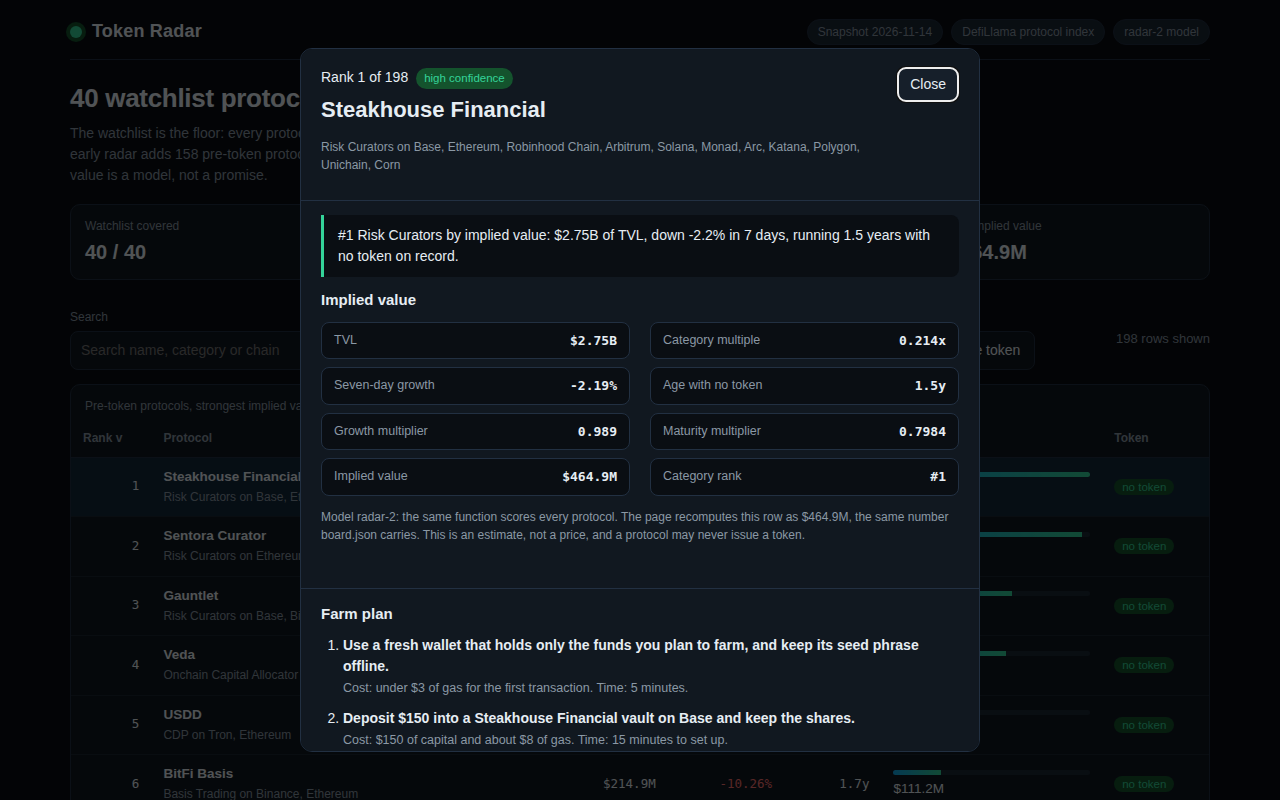
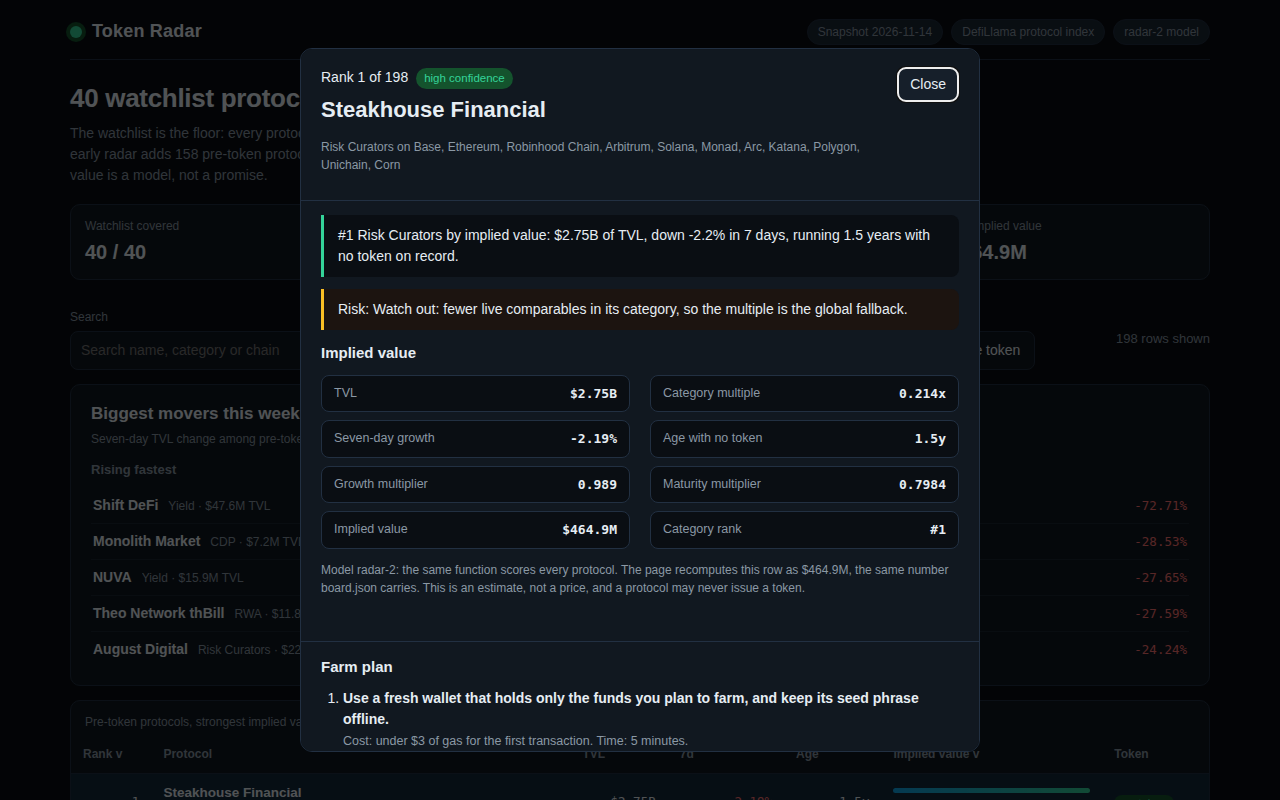
Add per-row risk notes, biggest-movers panel, per-category standings

diff --git a/lib/model.ts b/lib/model.ts
@@ -23,6 +23,9 @@
 //   implied    = max(1, round(tvl_usd x multiple x growthMult x maturity))
 //
 // No protocol name is ever special-cased: the same function scores every row.
+//
+// Each row also carries its own risk note, and the board ships two more views of the same figures:
+// the week's biggest movers among the pre-token rows, and one standing line per category.
 
 /** The snapshot's protocol entry: exactly the ten fields the sealed input carries. */
 export interface SnapshotProtocol {
@@ -112,6 +115,7 @@ export interface BoardRow {
     age_days: number | null;
   };
   thesis: string;
+  risk: string;
   confidence: 'high' | 'medium' | 'low';
   category_rank: number;
   farm_steps: string[];
@@ -134,6 +138,7 @@ export interface RadarRow {
   growth_multiplier: number;
   maturity_multiplier: number;
   thesis: string;
+  risk: string;
   confidence: 'high' | 'medium' | 'low';
   category_rank: number;
 }
@@ -156,6 +161,33 @@ export interface CategoryMultiple {
   multiple: number;
 }
 
+/** One of the week's fastest movers among the pre-token rows. */
+export interface Mover {
+  slug: string;
+  name: string;
+  category: string | null;
+  change_7d: number | null;
+  tvl_usd: number;
+  implied_value_usd: number;
+}
+
+/** The week's five fastest risers and five fastest fallers among the pre-token rows. */
+export interface Movers {
+  gainers: Mover[];
+  losers: Mover[];
+}
+
+/** One category's standing on the board: its rows, its median multiple, its top row. */
+export interface CategorySummary {
+  category: string;
+  rows: number;
+  watchlist_rows: number;
+  median_multiple: number;
+  top_slug: string;
+  top_name: string;
+  top_implied_usd: number;
+}
+
 /** Everything the dashboard needs: the board, the live set, and the model it runs. */
 export interface RadarData {
   as_of: string;
@@ -170,6 +202,8 @@ export interface RadarData {
   live_size: number;
   global_multiple: number;
   multiples: CategoryMultiple[];
+  movers: Movers;
+  categories: CategorySummary[];
   rows: RadarRow[];
   live: LiveRow[];
 }
@@ -312,6 +346,18 @@ export function confidenceFor(p: SnapshotProtocol): 'high' | 'medium' | 'low' {
   return 'low';
 }
 
+/** What could go wrong farming this protocol, from its own figures alone. */
+export function riskFor(p: SnapshotProtocol, age: number | null, growthPct: number, comparables: number): string {
+  const flags: string[] = [];
+  if (growthPct <= -20) flags.push(`TVL fell ${Math.abs(growthPct).toFixed(0)}% in 7 days, so the position may keep shrinking while you hold it`);
+  if (age === null) flags.push('no listing date on record, so the age behind the maturity score is a guess');
+  else if (age < 90) flags.push(`only ${age} days on record, so the track record is thin`);
+  if (comparables < MODEL.multiple_min_comparables) flags.push('fewer live comparables in its category, so the multiple is the global fallback');
+  if (p.tvl_usd < 100_000_000) flags.push('under $100M of TVL, so one large wallet leaving moves the pool');
+  if (flags.length === 0) return 'The main risk is the launch itself: a protocol may run for years and never issue a token.';
+  return `Watch out: ${flags.join('; ')}.`;
+}
+
 /** One line saying why this protocol is worth farming, from its own figures alone. */
 export function thesisFor(p: SnapshotProtocol, categoryRank: number, age: number | null, growthPct: number): string {
   const tvl =
@@ -387,6 +433,7 @@ export function buildBoard(snapshot: Snapshot, model: ModelConstants = MODEL): B
       age_days: s.age,
     },
     thesis: thesisFor(s.p, catRank.get(s.p.slug) ?? 0, s.age, s.growthPct),
+    risk: riskFor(s.p, s.age, s.growthPct, s.comparables),
     confidence: confidenceFor(s.p),
     category_rank: catRank.get(s.p.slug) ?? 0,
     farm_steps: farmSteps(s.p, s.age).map(stepText),
@@ -507,6 +554,57 @@ export function farmSteps(p: SnapshotProtocol, age: number | null): FarmStep[] {
   ];
 }
 
+/** The five fastest risers and five fastest fallers, by seven-day change. */
+export function moversOf(board: BoardRow[]): Movers {
+  const withChange = board.filter((r) => r.change_7d !== null);
+  const toMover = (r: BoardRow): Mover => ({
+    slug: r.slug,
+    name: r.name,
+    category: r.category,
+    change_7d: r.change_7d,
+    tvl_usd: r.tvl_usd,
+    implied_value_usd: r.implied_value_usd,
+  });
+  const gainers = withChange
+    .slice()
+    .sort((a, b) => (b.change_7d ?? 0) - (a.change_7d ?? 0))
+    .slice(0, 5)
+    .map(toMover);
+  const losers = withChange
+    .slice()
+    .sort((a, b) => (a.change_7d ?? 0) - (b.change_7d ?? 0))
+    .slice(0, 5)
+    .map(toMover);
+  return { gainers, losers };
+}
+
+/** A per-category standing table, built from the ranked board and the derived multiples. */
+export function categorySummaries(board: BoardRow[], multiples: Multiples, watchlist: string[]): CategorySummary[] {
+  const byCat = new Map<string, BoardRow[]>();
+  for (const r of board) {
+    const key = r.category ?? 'Other';
+    const list = byCat.get(key) ?? [];
+    list.push(r);
+    byCat.set(key, list);
+  }
+  const out: CategorySummary[] = [];
+  for (const [category, rows] of byCat) {
+    const top = rows[0]!;
+    const entry = multiples.byCategory.get(category);
+    out.push({
+      category,
+      rows: rows.length,
+      watchlist_rows: rows.filter((r) => watchlist.includes(r.slug)).length,
+      median_multiple: round4(entry !== undefined ? entry.multiple : multiples.global),
+      top_slug: top.slug,
+      top_name: top.name,
+      top_implied_usd: top.implied_value_usd,
+    });
+  }
+  out.sort((a, b) => b.rows - a.rows || (a.category < b.category ? -1 : 1));
+  return out;
+}
+
 /** The live-token protocols, by market cap, for the dashboard's Live token view. */
 export function liveRows(snapshot: Snapshot): LiveRow[] {
   return snapshot.protocols
@@ -542,6 +640,7 @@ export function radarRow(row: BoardRow): RadarRow {
     growth_multiplier: row.model.growth_multiplier,
     maturity_multiplier: row.model.maturity_multiplier,
     thesis: row.thesis,
+    risk: row.risk,
     confidence: row.confidence,
     category_rank: row.category_rank,
   };
@@ -569,6 +668,8 @@ export function buildRadar(snapshot: Snapshot, model: ModelConstants = MODEL): {
     live_size: live.length,
     global_multiple: round4(multiples.global),
     multiples: multiplesTable,
+    movers: moversOf(board),
+    categories: categorySummaries(board, multiples, snapshot.watchlist),
     rows: board.map(radarRow),
     live,
   };

diff --git a/dashboard/app.js b/dashboard/app.js
@@ -1,7 +1,8 @@
 // Token Radar's dashboard, model radar-2. It reads window.RADAR (written beside dashboard/ by
 // main.ts) and renders the ranked board, a filterable table, a per-protocol detail dialog with the
 // model's own inputs and the protocol's farm plan, and the methodology with the derived multiples.
-// No network: every byte it shows is in data.js.
+// It also shows the week's biggest movers among pre-token rows, each row's own risk note, and one
+// standing line per category. No network: every byte it shows is in data.js.
 (function () {
   'use strict';
 
@@ -234,6 +235,30 @@
     );
   }
 
+  function moversPanel() {
+    var m = DATA.movers;
+    if (!m || (!m.gainers.length && !m.losers.length)) return null;
+    function moverList(list, label) {
+      return el('div', { class: 'movers-col' },
+        el('h3', { text: label }),
+        el('ul', { class: 'movers' }, list.map(function (x) {
+          return el('li', null,
+            el('button', { type: 'button', onclick: function () { openDetail(x.slug); } },
+              el('b', { text: x.name }),
+              el('span', { class: 'sub', text: (x.category || 'Other') + ' · ' + fmtUsd(x.tvl_usd) + ' TVL' }),
+              el('span', { class: 'num ' + (x.change_7d >= 0 ? 'pos' : 'neg'), text: fmtPct(x.change_7d) })
+            )
+          );
+        }))
+      );
+    }
+    return el('section', { class: 'panel movers-panel' },
+      el('h2', { text: 'Biggest movers this week' }),
+      el('p', { class: 'sub', text: 'Seven-day TVL change among pre-token rows. A fast riser is not a better farm on its own: read the risk note on its detail page before chasing the move.' }),
+      el('div', { class: 'movers-grid' }, moverList(m.gainers, 'Rising fastest'), moverList(m.losers, 'Falling fastest'))
+    );
+  }
+
   function boardTable() {
     var list = sortedRows(rows());
     if (list.length === 0) {
@@ -332,6 +357,19 @@
         el('thead', null, el('tr', null, el('th', { text: 'Category' }), el('th', { text: 'Live comparables' }), el('th', { text: 'Multiple' }))),
         el('tbody', null, rows)
       ),
+      el('h3', { text: 'Where the board stands by category' }),
+      el('table', { class: 'mult-table' },
+        el('thead', null, el('tr', null, el('th', { text: 'Category' }), el('th', { text: 'Rows' }), el('th', { text: 'Watchlist' }), el('th', { text: 'Multiple' }), el('th', { text: 'Top row' }))),
+        el('tbody', null, (DATA.categories || []).map(function (c) {
+          return el('tr', null,
+            el('td', { text: c.category }),
+            el('td', { class: 'num', text: String(c.rows) }),
+            el('td', { class: 'num', text: String(c.watchlist_rows) }),
+            el('td', { class: 'num', text: c.median_multiple.toFixed(3) + 'x' }),
+            el('td', null, el('button', { type: 'button', class: 'linklike', onclick: function () { openDetail(c.top_slug); } }, c.top_name + ' · ' + fmtUsd(c.top_implied_usd)))
+          );
+        }))
+      ),
       el('p', { class: 'note', text: 'TVL and seven-day growth come from the snapshot. Age is the time since the protocol was first listed, the best record of how long it has run with no token; an unlisted age uses ' + m.unknown_age_days + ' days. The board leaves out exchanges, bridges, liquid staking and restaking, versioned pools and wrapped or staked products: a product of a token that already trades is not a launch of its own. "No token" means no token on record in this snapshot, never a promise that none exists.' })
     );
   }
@@ -358,6 +396,7 @@
     ));
     dialog.appendChild(el('section', { class: 'detail-section' },
       el('p', { class: 'thesis', text: row.thesis }),
+      el('p', { class: 'risk', text: 'Risk: ' + (row.risk || 'No risk note on record.') }),
       el('h3', { text: 'Implied value' }),
       el('div', { class: 'equation' },
         el('div', null, el('span', { text: 'TVL' }), el('b', { class: 'num', text: fmtUsd(row.tvl_usd) })),
@@ -393,6 +432,10 @@
     shell.appendChild(header());
     shell.appendChild(lede());
     shell.appendChild(controls());
+    if (state.tab === 'pre-token') {
+      var movers = moversPanel();
+      if (movers) shell.appendChild(movers);
+    }
     shell.appendChild(state.tab === 'pre-token' ? boardTable() : liveTable());
     if (state.tab === 'pre-token') shell.appendChild(modelPanel());
     shell.appendChild(el('p', { class: 'foot', text: 'Source: ' + DATA.source + '. "No token" means no token on record in this snapshot. Implied values are a model estimate, not a price.' }));

diff --git a/dashboard/app.css b/dashboard/app.css
@@ -102,9 +102,29 @@ td.num { font-family: var(--mono); font-size: 12.5px; }
 .pill.high { color: var(--green); background: var(--green-dim); }
 .pill.medium { color: var(--amber); background: #451a03; }
 .pill.low { color: var(--red); background: #450a0a; }
+.movers-panel { margin: 0 0 14px; padding: 16px 20px 18px; }
+.movers-panel h2 { margin: 0 0 4px; font-size: 17px; }
+.movers-panel > p { margin: 0 0 12px; }
+.movers-grid { display: grid; grid-template-columns: 1fr 1fr; gap: 8px 28px; }
+.movers-col h3 { margin: 0 0 8px; font-size: 13px; color: var(--muted); font-weight: 600; }
+.movers { list-style: none; margin: 0; padding: 0; }
+.movers li { border-bottom: 1px solid #1a2531; }
+.movers li:last-child { border-bottom: 0; }
+.movers button { display: flex; align-items: baseline; gap: 10px; width: 100%; text-align: left;
+  background: none; border: 0; padding: 7px 2px; cursor: pointer; }
+.movers button:hover b { color: var(--accent); }
+.movers button b { font-weight: 600; }
+.movers button .sub { flex: 1; overflow: hidden; text-overflow: ellipsis; white-space: nowrap; }
+.movers button .num { font-family: var(--mono); font-size: 12.5px; }
+.risk { background: #1c1410; border-left: 3px solid var(--amber); border-radius: 0 8px 8px 0;
+  padding: 10px 14px; margin: 0 0 12px; color: var(--text); }
+.linklike { background: none; border: 0; padding: 0; cursor: pointer; color: var(--accent); font-size: 13px; text-align: left; }
+.linklike:hover { text-decoration: underline; }
+.model h3 { margin: 16px 0 8px; font-size: 14px; }
 .foot { margin-top: 18px; color: var(--faint); font-size: 12.5px; }
 @media (max-width: 720px) {
   .facts { grid-template-columns: repeat(2, 1fr); }
+  .movers-grid { grid-template-columns: 1fr; }
   .lede h1 { font-size: 21px; }
   #q { width: 100%; }
   .count { margin-left: 0; }

diff --git a/README.md b/README.md
@@ -4,7 +4,7 @@
 [![rank](https://make.fun/badge/token-radar-01/takhao666/token-radar/rank.svg)](https://make.fun/bounty/token-radar-01/leaderboard?utm_source=github&utm_medium=readme&utm_campaign=token-radar-01)
 [![reward](https://make.fun/badge/token-radar-01/takhao666/token-radar/reward.svg)](https://make.fun/bounty/token-radar-01?utm_source=github&utm_medium=readme&utm_campaign=token-radar-01)
 
-Token Radar ranks every pre-token protocol in the sealed DefiLlama snapshot by what its launch would be worth, and shows how to farm each one. Model radar-2: the multiple is the median market-cap-to-TVL ratio of the live-token protocols in the same category, read from the snapshot itself — never a hardcoded constant — combined with seven-day growth and age with no token on record. The board covers all 40 watchlist protocols plus every other rankable pre-token protocol below the floor (198 rows), each with a thesis and a seven-step farm plan with costs and times. The dashboard is a static page that renders with no network: sortable, filterable, with a detail view per protocol and the methodology table.
+Token Radar ranks every pre-token protocol in the sealed DefiLlama snapshot by what its launch would be worth, and shows how to farm each one. Model radar-2: the multiple is the median market-cap-to-TVL ratio of the live-token protocols in the same category, read from the snapshot itself — never a hardcoded constant — combined with seven-day growth and age with no token on record. The board covers all 40 watchlist protocols plus every other rankable pre-token protocol below the floor (198 rows), each with a thesis, a risk note, and a seven-step farm plan with costs and times. The dashboard is a static page that renders with no network: sortable, filterable, with a detail view per protocol, a biggest-movers panel, a per-category standing table, and the methodology table.
 
 ## Run it
 
